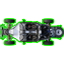
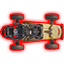
some fix

diff --git a/src/RadarProject/main/ui/GLMap.kt b/src/RadarProject/main/ui/GLMap.kt
@@ -1085,7 +1085,7 @@ class GLMap : InputAdapter(), ApplicationListener, GameListener {
                                 2.toFloat() / 2, 2.toFloat() / 2,
                                 2.toFloat(), 2.toFloat(),
                                 iconScale / 2, iconScale / 2,
-                                dir * -1, 0, 0, 128, 128, false, false
+                                dir * -1, 0, 0, 64, 64, false, false
                         )
                         val v_x = actor!!.velocity.x
                         val v_y = actor.velocity.y
@@ -1157,7 +1157,7 @@ class GLMap : InputAdapter(), ApplicationListener, GameListener {
                         val (sx, sy) = Vector2(x, y).mapToWindow()
                         if (isTeamMate(actor)) {
                             spriteBatch.draw(
-                                    player,
+                                    teamplayer,
                                     sx, windowHeight - sy - 2, 4.toFloat() / 2,
                                     4.toFloat() / 2, 4.toFloat(), 4.toFloat(), playersize, playersize,
                                     dir * -1, 0, 0, 64, 64, true, false)

diff --git a/src/RadarProject/main/struct/Actor.kt b/src/RadarProject/main/struct/Actor.kt
@@ -37,7 +37,7 @@ enum class Archetype { //order matters, it affects the order of drawing
             archetype.contains("Default__Player") -> Player
             archetype.contains("DroppedItemGroup") -> DroopedItemGroup
             archetype.contains("bike", true) -> TwoSeatBike
-            archetype.contains("Sidecart", true) -> ThreeSeatCar
+            archetype.contains("sidecart", true) -> ThreeSeatCar
             archetype.contains("buggy", true) -> TwoSeatCar
             archetype.contains("dacia", true) -> FourSeatDU
             archetype.contains("uaz", true) -> FourSeatDU
